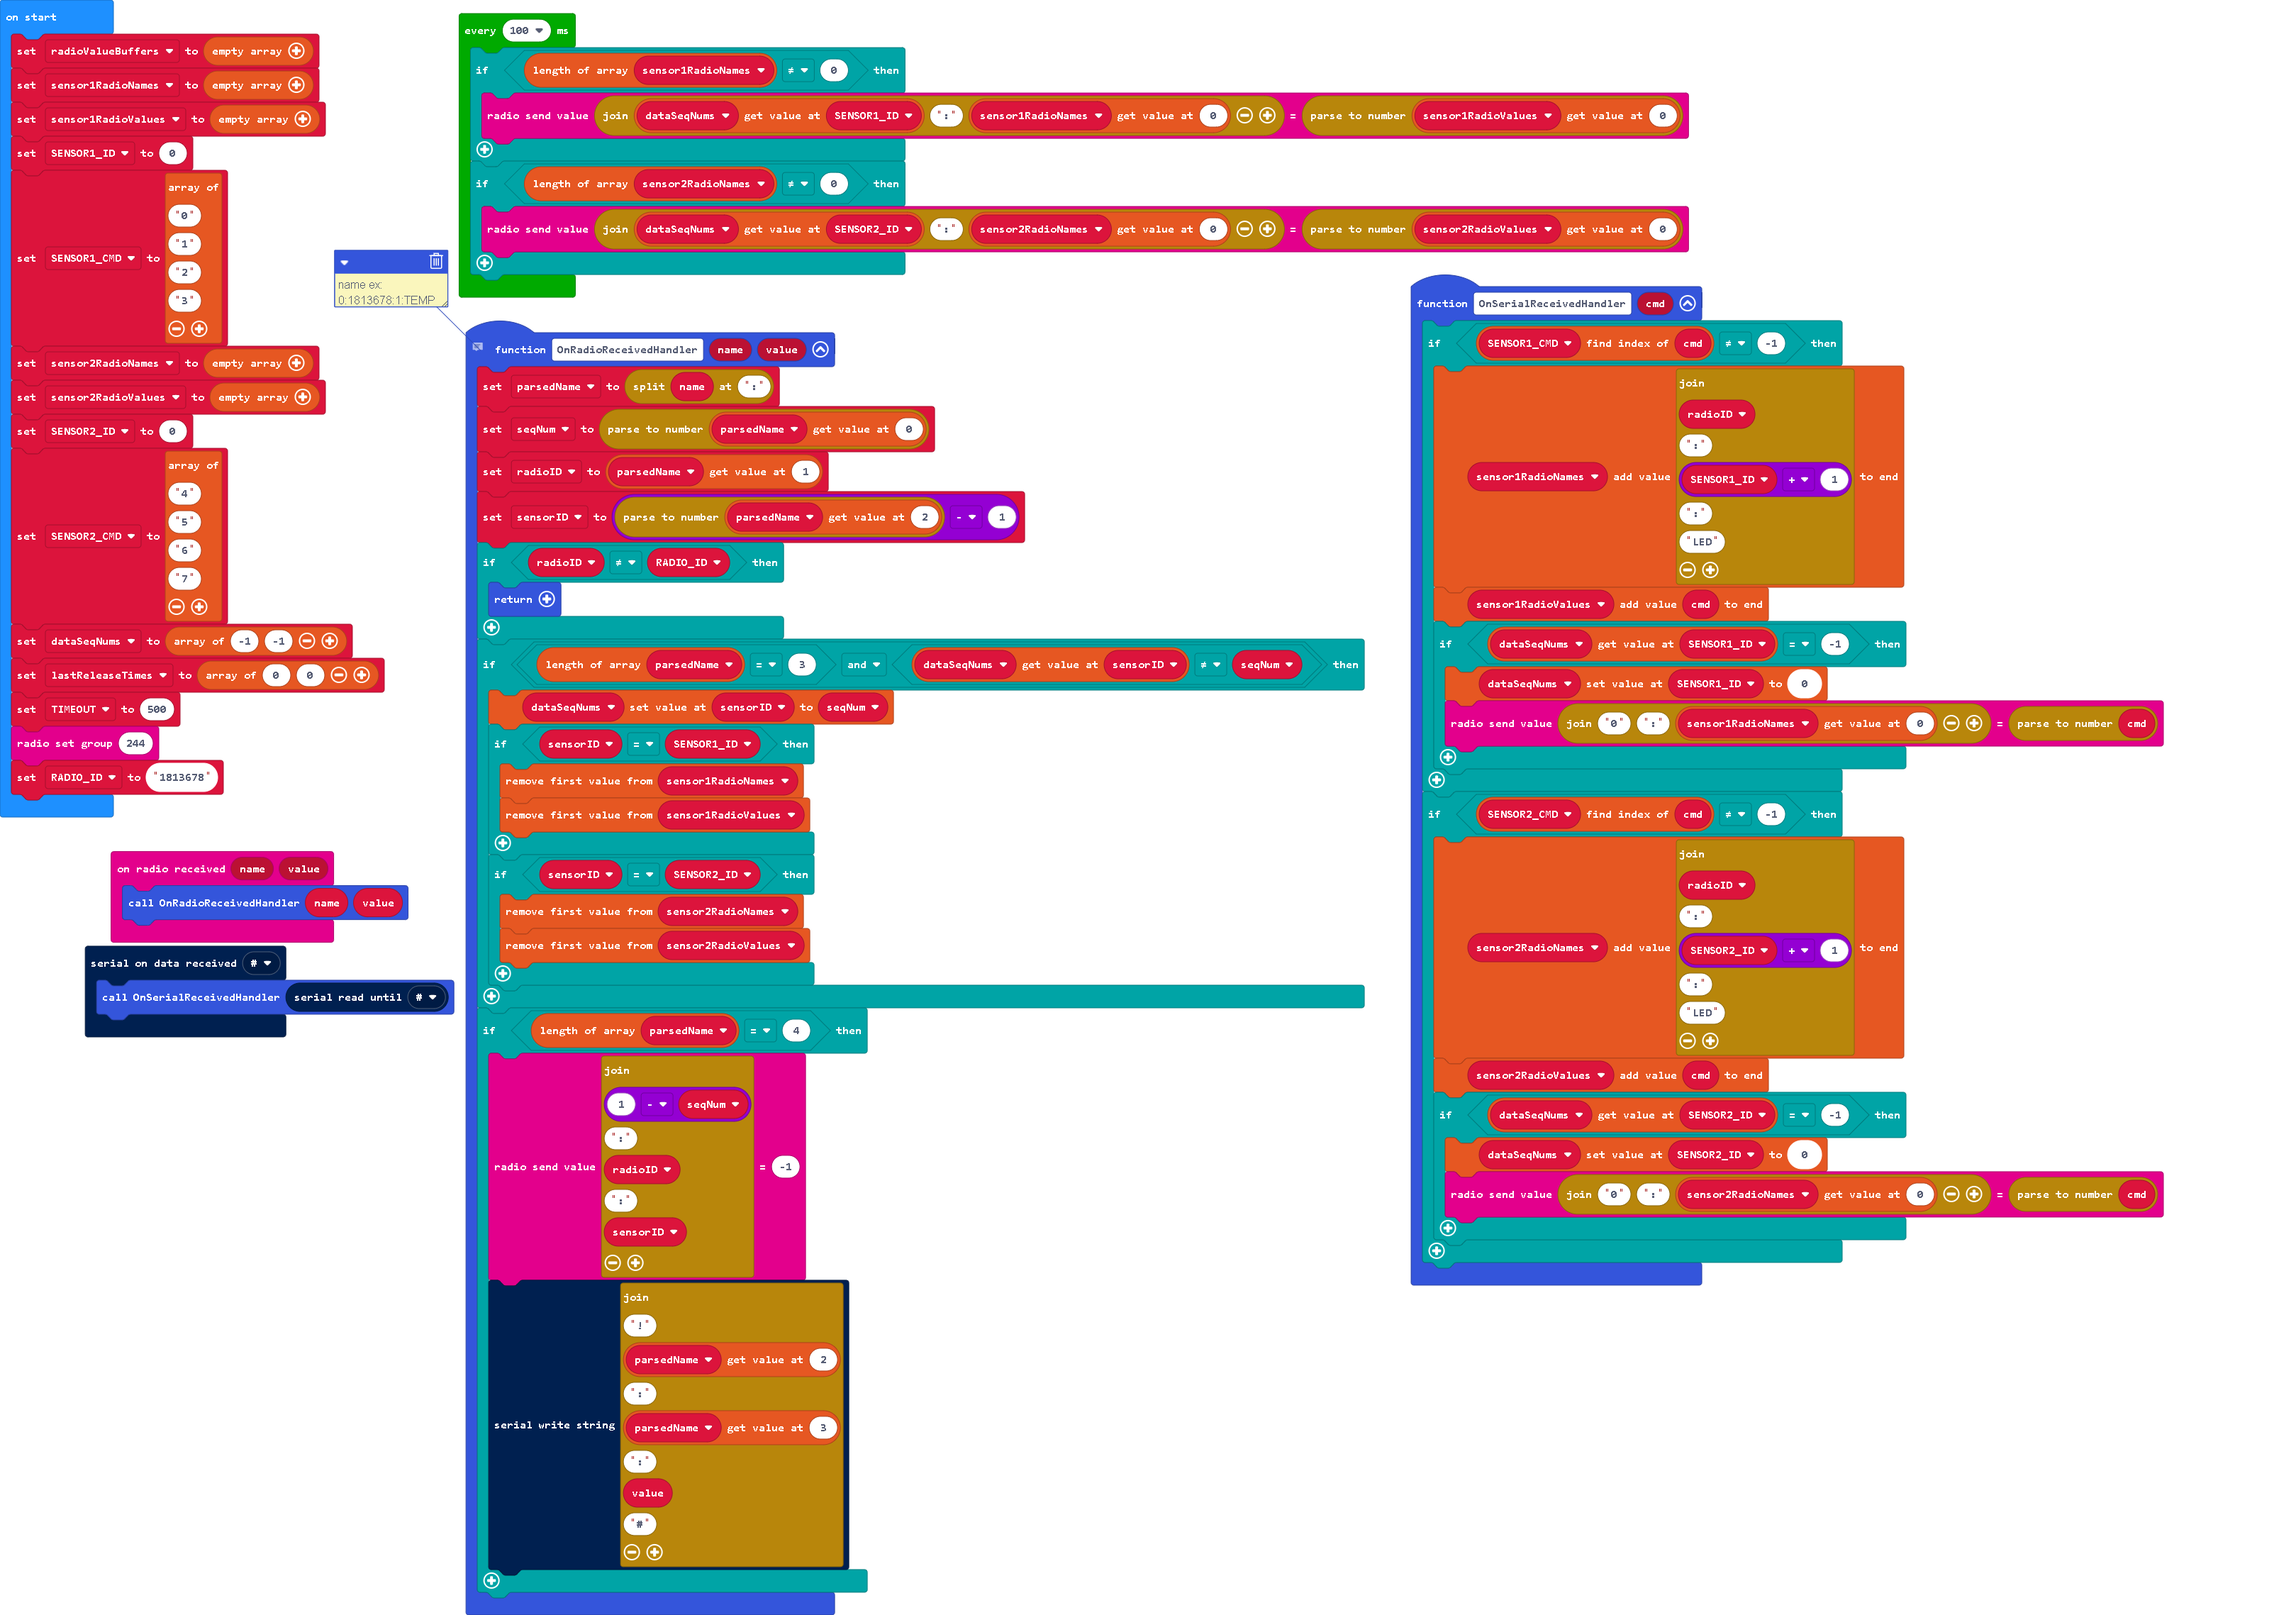
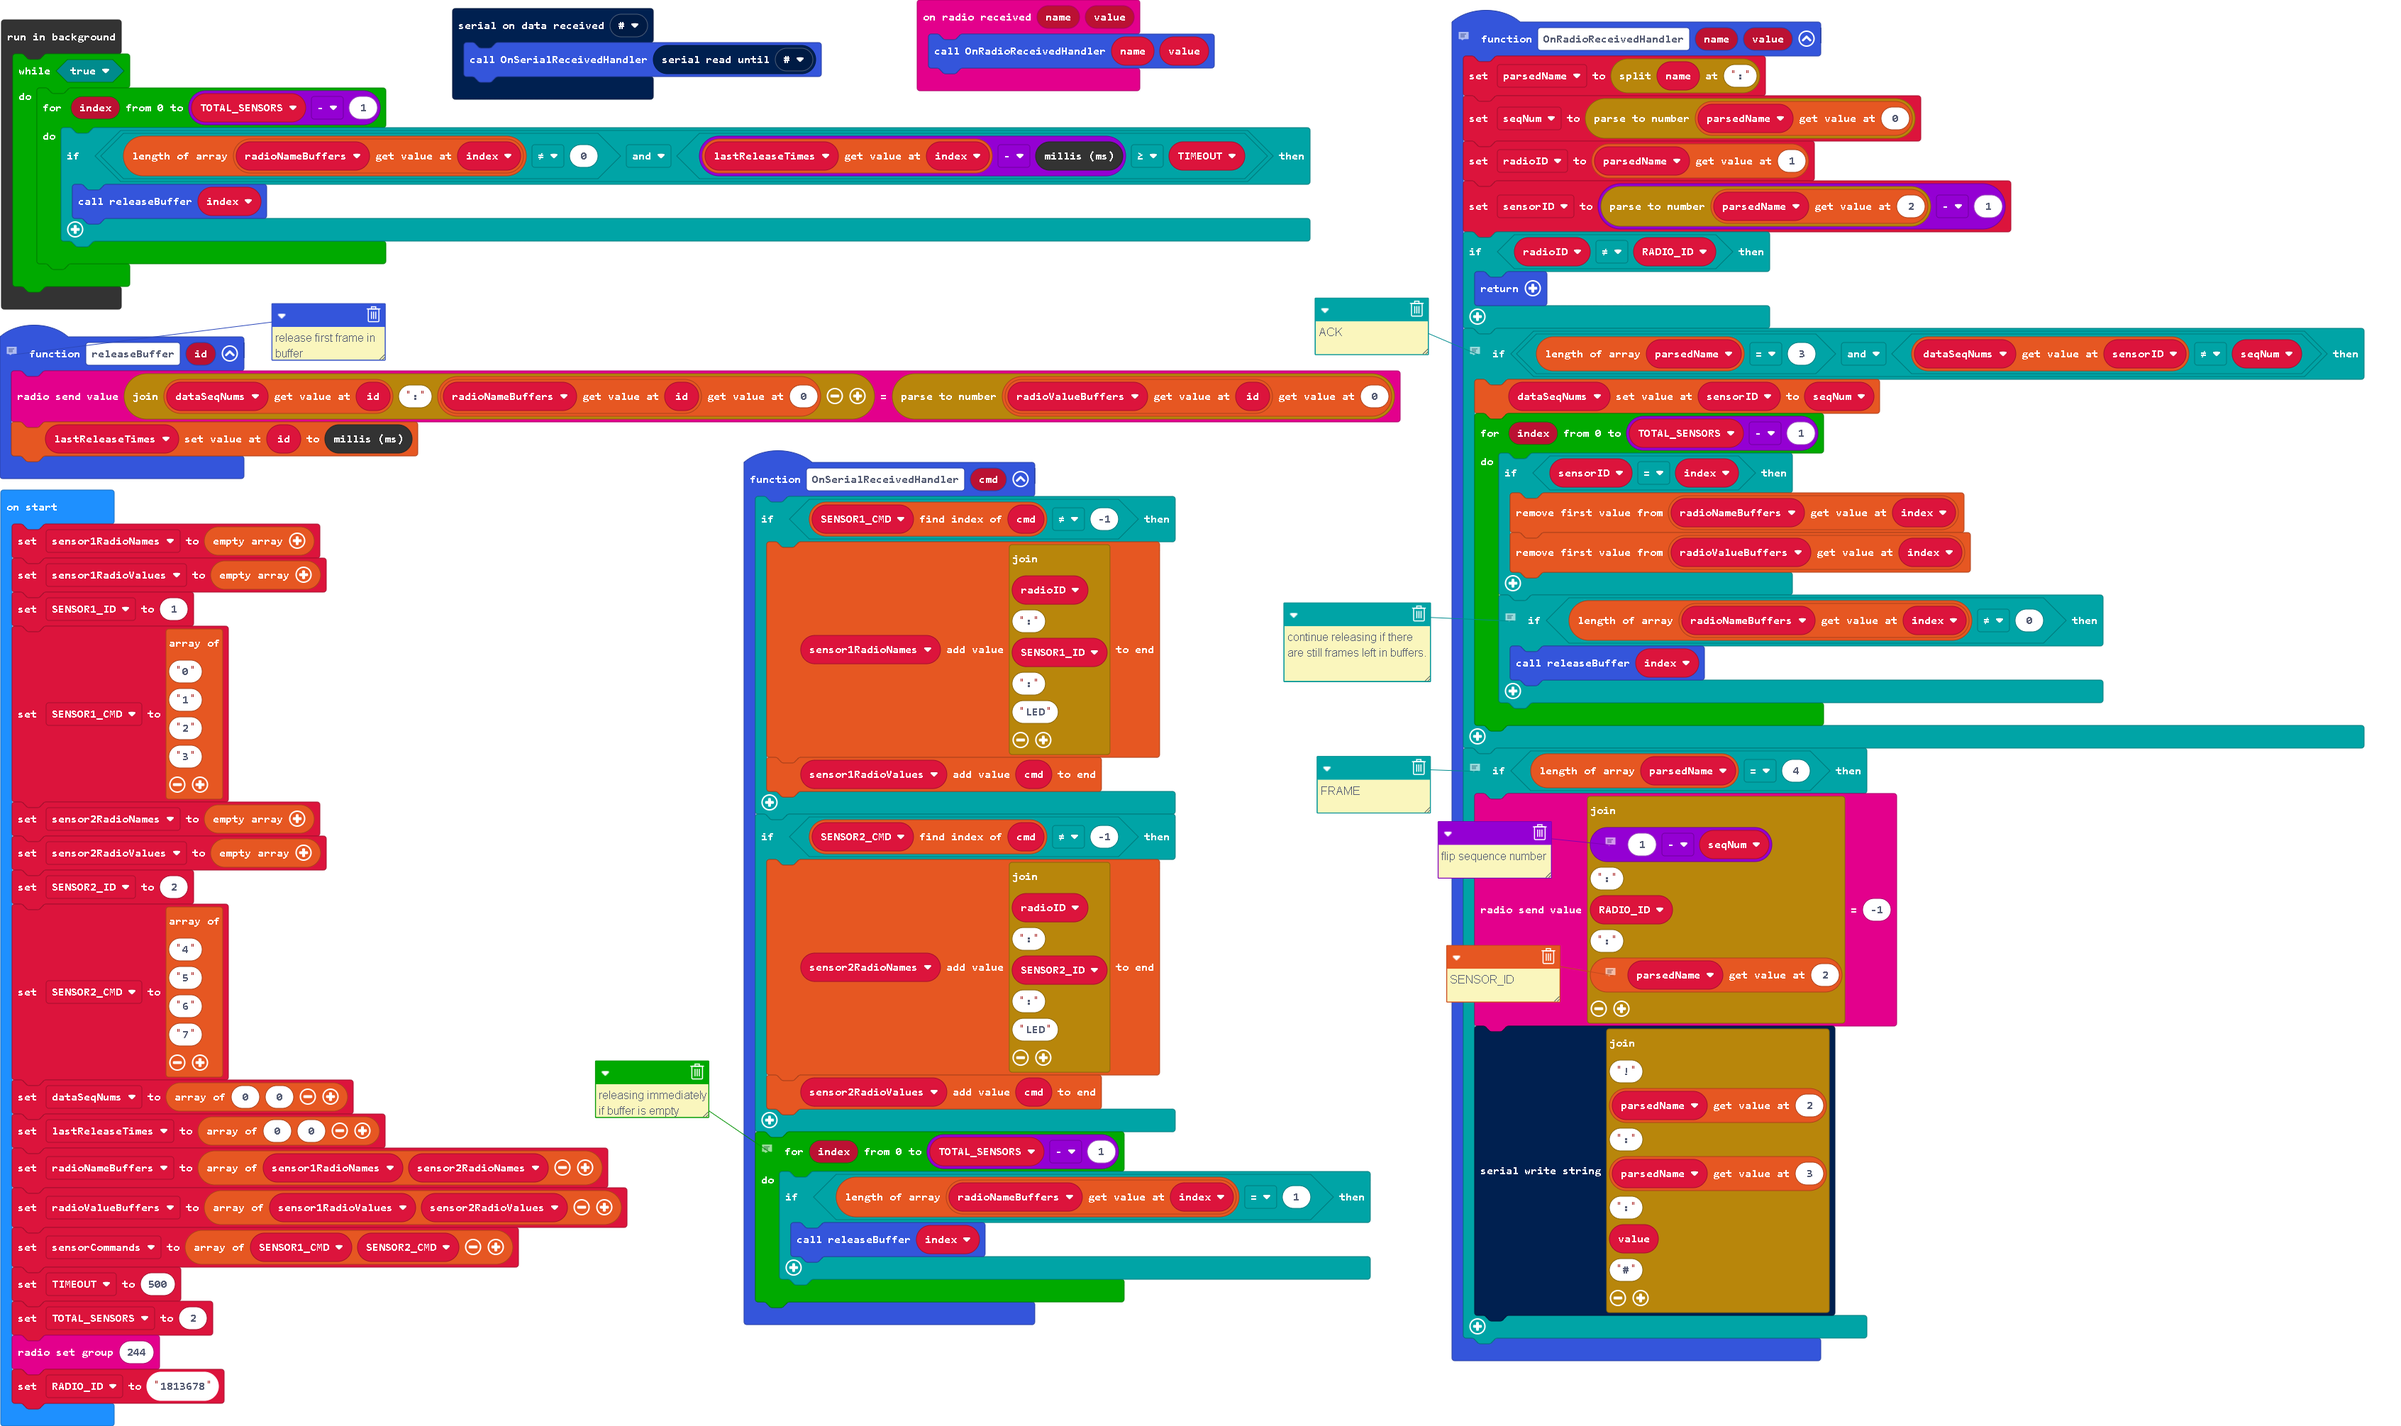
update timeout

diff --git a/main.ts b/main.ts
@@ -8,37 +8,46 @@ function OnRadioReceivedHandler (name: string, value: number) {
     if (radioID != RADIO_ID) {
         return
     }
+    // ACK
     if (parsedName.length == 3 && dataSeqNums[sensorID] != seqNum) {
         dataSeqNums[sensorID] = seqNum
-        if (sensorID == SENSOR1_ID) {
-            sensor1RadioNames.shift()
-            sensor1RadioValues.shift()
-        }
-        if (sensorID == SENSOR2_ID) {
-            sensor2RadioNames.shift()
-            sensor2RadioValues.shift()
+        for (let index = 0; index <= TOTAL_SENSORS - 1; index++) {
+            if (sensorID == index) {
+                radioNameBuffers[index].shift()
+                radioValueBuffers[index].shift()
+            }
+            // continue releasing if there are still frames left in buffers.
+            if (radioNameBuffers[index].length != 0) {
+                releaseBuffer(index)
+            }
         }
     }
+    // FRAME
     if (parsedName.length == 4) {
-        radio.sendValue("" + (1 - seqNum) + ":" + radioID + ":" + sensorID, -1)
+        // flip sequence number
+        // SENSOR_ID
+        radio.sendValue("" + (1 - seqNum) + ":" + RADIO_ID + ":" + parsedName[2], -1)
         serial.writeString("!" + parsedName[2] + ":" + parsedName[3] + ":" + value + "#")
     }
 }
+// release first frame in buffer
+function releaseBuffer (id: number) {
+    radio.sendValue("" + dataSeqNums[id] + ":" + radioNameBuffers[id][0], parseFloat(radioValueBuffers[id][0]))
+    lastReleaseTimes[id] = control.millis()
+}
 function OnSerialReceivedHandler (cmd: string) {
     if (SENSOR1_CMD.indexOf(cmd) != -1) {
-        sensor1RadioNames.push("" + radioID + ":" + (SENSOR1_ID + 1) + ":" + "LED")
+        sensor1RadioNames.push("" + radioID + ":" + SENSOR1_ID + ":" + "LED")
         sensor1RadioValues.push(cmd)
-        if (dataSeqNums[SENSOR1_ID] == -1) {
-            dataSeqNums[SENSOR1_ID] = 0
-            radio.sendValue("0" + ":" + sensor1RadioNames[0], parseFloat(cmd))
-        }
     }
     if (SENSOR2_CMD.indexOf(cmd) != -1) {
-        sensor2RadioNames.push("" + radioID + ":" + (SENSOR2_ID + 1) + ":" + "LED")
+        sensor2RadioNames.push("" + radioID + ":" + SENSOR2_ID + ":" + "LED")
         sensor2RadioValues.push(cmd)
-        if (dataSeqNums[SENSOR2_ID] == -1) {
-            dataSeqNums[SENSOR2_ID] = 0
-            radio.sendValue("0" + ":" + sensor2RadioNames[0], parseFloat(cmd))
+    }
+    // releasing immediately if buffer is empty
+    for (let index = 0; index <= TOTAL_SENSORS - 1; index++) {
+        if (radioNameBuffers[index].length == 1) {
+            releaseBuffer(index)
         }
     }
 }
@@ -53,6 +62,10 @@ let radioID = ""
 let seqNum = 0
 let parsedName: string[] = []
 let RADIO_ID = ""
+let TOTAL_SENSORS = 0
+let radioValueBuffers: string[][] = []
+let radioNameBuffers: string[][] = []
+let lastReleaseTimes: number[] = []
 let dataSeqNums: number[] = []
 let SENSOR2_CMD: string[] = []
 let SENSOR2_ID = 0
@@ -62,10 +75,9 @@ let SENSOR1_CMD: string[] = []
 let SENSOR1_ID = 0
 let sensor1RadioValues: string[] = []
 let sensor1RadioNames: string[] = []
-let radioValueBuffers: number[] = []
 sensor1RadioNames = []
 sensor1RadioValues = []
-SENSOR1_ID = 0
+SENSOR1_ID = 1
 SENSOR1_CMD = [
 "0",
 "1",
@@ -74,23 +86,28 @@ SENSOR1_CMD = [
 ]
 sensor2RadioNames = []
 sensor2RadioValues = []
-SENSOR2_ID = 0
+SENSOR2_ID = 2
 SENSOR2_CMD = [
 "4",
 "5",
 "6",
 "7"
 ]
-dataSeqNums = [-1, -1]
-let lastReleaseTimes = [0, 0]
+dataSeqNums = [0, 0]
+lastReleaseTimes = [0, 0]
+radioNameBuffers = [sensor1RadioNames, sensor2RadioNames]
+radioValueBuffers = [sensor1RadioValues, sensor2RadioValues]
+let sensorCommands = [SENSOR1_CMD, SENSOR2_CMD]
 let TIMEOUT = 500
+TOTAL_SENSORS = 2
 radio.setGroup(244)
 RADIO_ID = "1813678"
-loops.everyInterval(100, function () {
-    if (sensor1RadioNames.length != 0) {
-        radio.sendValue("" + dataSeqNums[SENSOR1_ID] + ":" + sensor1RadioNames[0], parseFloat(sensor1RadioValues[0]))
-    }
-    if (sensor2RadioNames.length != 0) {
-        radio.sendValue("" + dataSeqNums[SENSOR2_ID] + ":" + sensor2RadioNames[0], parseFloat(sensor2RadioValues[0]))
+control.inBackground(function () {
+    while (true) {
+        for (let index = 0; index <= TOTAL_SENSORS - 1; index++) {
+            if (radioNameBuffers[index].length != 0 && lastReleaseTimes[index] - control.millis() >= TIMEOUT) {
+                releaseBuffer(index)
+            }
+        }
     }
 })
